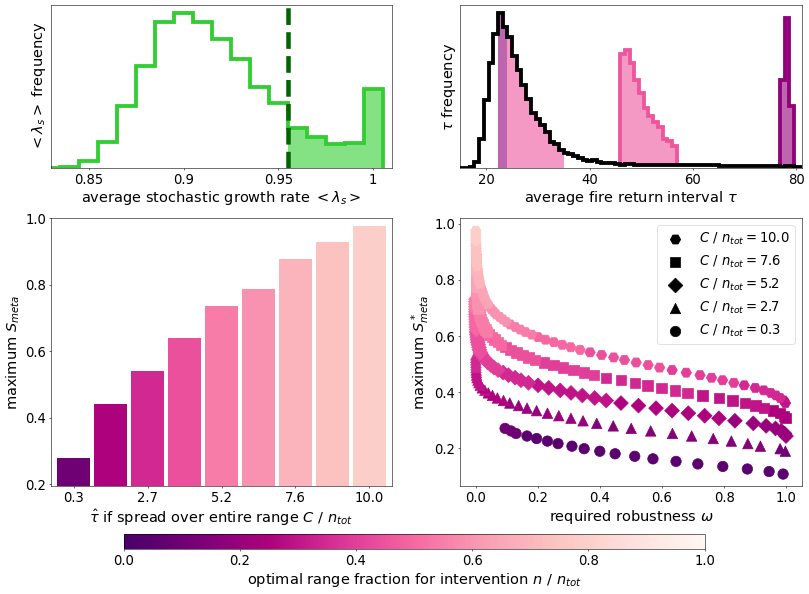
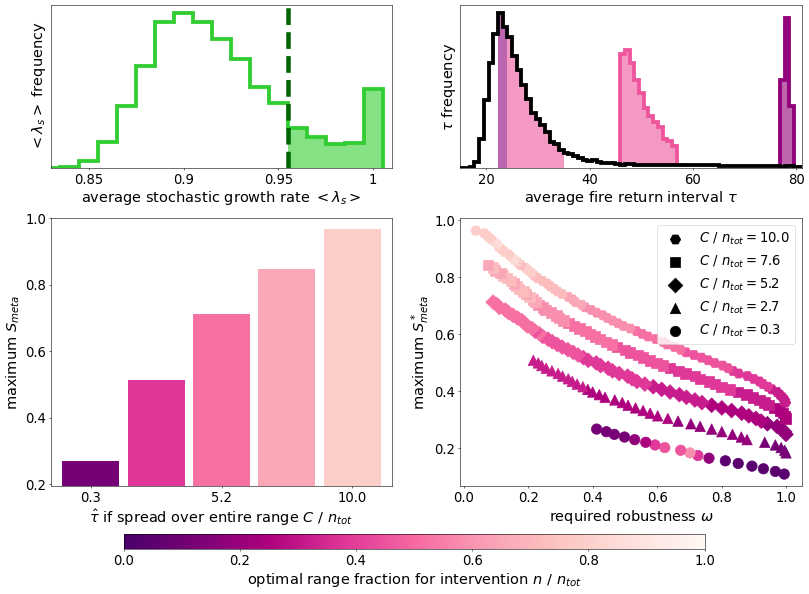
Include positive vals in systematic uncertainties

diff --git a/sensitivity/postprocess.py b/sensitivity/postprocess.py
@@ -23,10 +23,10 @@ tau_vec = b_vec * gamma(1+1/c)
 tau_step = np.diff(tau_vec)[0] / 2
 tau_edges = np.concatenate(([0], np.arange(tau_step/2, tau_vec[-1]+tau_step, tau_step)))
 tauc_methods = ["flat"]
-C_i_vec = [4] # For generation of cell metric data
+C_i_vec = [2,3,4] # For generation of cell metric data
 results_pre_labs = ['gte_thresh']
 #results_pre_labs = ['distribution_avg']
-overwrite_robustness = False
+overwrite_robustness = True
 overwrite_cellmetric = True
 
 # Function to read in things specific to given results as global variables
@@ -176,8 +176,9 @@ for res_i, results_pre in enumerate(results_pre_labs):
     argmaxrob = np.load(fn_prefix + "argmaxrob.npy")
     rob_thresh_vec = np.load(fn_prefix + "rob_thresh_vec.npy")
     for C_i in C_i_vec:
-        if os.path.isdir(fn_prefix + f"{C_i}") == False:
-            os.makedirs(fn_prefix + f"{C_i}")
+        tauhat_min = np.round(C_vec[C_i]/ncell_tot, 2) 
+        if os.path.isdir(fn_prefix + f"{tauhat_min}") == False:
+            os.makedirs(fn_prefix + f"{tauhat_min}")
 
         # Select metric threshold indices as close as possible to desired omega samples
         #closest_thresh_i = np.array([np.abs(maxrob[:,C_i] - val).argmin() for val in omega_samples])
@@ -199,7 +200,7 @@ for res_i, results_pre in enumerate(results_pre_labs):
             opt_sl = slice_left_all[opt_sl_i]
             '''Note that we assume the tau axis of inoptima_vec is in sorted order'''
             inoptima_vec[opt_sl:opt_sl+opt_ncell, omega_sample_i] = True
-        np.save(fn_prefix + f"{C_i}/inoptima_vec.npy", inoptima_vec)
+        np.save(fn_prefix + f"{tauhat_min}/inoptima_vec.npy", inoptima_vec)
 
         # Now, fit a step function to each cell's data and store information based on that
         stepfit_T1 = np.ones(tau_flat.size) * np.nan
@@ -228,7 +229,7 @@ for res_i, results_pre in enumerate(results_pre_labs):
                 if best_fit_i == 1:
                     stepfit_T2[k] = sign * best_fit.x[1]
                 total_inoptima[k] = np.count_nonzero(y == 1)
-        np.save(fn_prefix + f"{C_i}/stepfit_T1.npy", stepfit_T1)
-        np.save(fn_prefix + f"{C_i}/stepfit_T2.npy", stepfit_T2)
-        np.save(fn_prefix + f"{C_i}/total_inoptima.npy", total_inoptima)
-        np.save(fn_prefix + f"{C_i}/closest_thresh_i.npy", closest_thresh_i)
+        np.save(fn_prefix + f"{tauhat_min}/stepfit_T1.npy", stepfit_T1)
+        np.save(fn_prefix + f"{tauhat_min}/stepfit_T2.npy", stepfit_T2)
+        np.save(fn_prefix + f"{tauhat_min}/total_inoptima.npy", total_inoptima)
+        np.save(fn_prefix + f"{tauhat_min}/closest_thresh_i.npy", closest_thresh_i)

diff --git a/sensitivity/makefig.py b/sensitivity/makefig.py
@@ -28,7 +28,7 @@ tau_vec = b_vec * gamma(1+1/c)
 tau_step = np.diff(tau_vec)[0] / 2
 tau_edges = np.concatenate(([0], np.arange(tau_step/2, tau_vec[-1]+tau_step, tau_step)))
 tauc_methods = ["flat"]
-C_i_vec = [4]
+C_i_vec = [2,3,4]
 results_pre = 'gte_thresh' 
 #results_pre = 'distribution_avg' 
 
@@ -269,7 +269,7 @@ all_linestyles = ['dotted', 'dashdot', 'dashed', 'solid']
 #C_i_samples = [1,5,9]
 #C_i_samples = [1,3,6,9,11]
 #C_i_samples = [0,1,2,3,4]
-C_i_samples = [i for i in range(C_vec.size)][::2]
+C_i_samples = [i for i in range(C_vec.size)][::1]
 for line_i, C_i in enumerate(C_i_samples):
     plot_vec = np.ones(len(rob_thresh_vec)) * np.nan
     c_vec = np.ones(len(rob_thresh_vec)) * np.nan
@@ -422,6 +422,7 @@ cmap = copy.copy(cm.twilight_shifted)
 vmin = -1; vmax = 1
 norm = colors.Normalize(vmin=vmin, vmax=vmax)
 for C_i in C_i_vec:
+    tauhat_min = np.round(C_vec[C_i]/ncell_tot, 2)
     fig = plt.figure(figsize=np.array([6.8, 6])*2.)
     gs = GridSpec(3, 4, figure=fig, width_ratios=[2, 2, 1.1, 1.1], height_ratios=[1, 1, 1])
     ax1 = fig.add_subplot(gs[0, :2])  # Top-left subplot
@@ -431,9 +432,9 @@ for C_i in C_i_vec:
 
     # Read in / set constants
     set_globals(results_pre)
-    stepfit_T1 = np.load(fn_prefix + f"{C_i}/stepfit_T1.npy")
-    total_inoptima = np.load(fn_prefix + f"{C_i}/total_inoptima.npy")
-    closest_thresh_i = np.load(fn_prefix + f"{C_i}/closest_thresh_i.npy")
+    stepfit_T1 = np.load(fn_prefix + f"{tauhat_min}/stepfit_T1.npy")
+    total_inoptima = np.load(fn_prefix + f"{tauhat_min}/total_inoptima.npy")
+    closest_thresh_i = np.load(fn_prefix + f"{tauhat_min}/closest_thresh_i.npy")
 
     mapi_sorted = mapindices[tau_argsort].T
     # Initialize array for sensitivity metric; no changes needed to case of inclusions (T1 > 0)
@@ -518,7 +519,7 @@ for C_i in C_i_vec:
     ax4.axis('off')
     ######
 
-    fn = fig_prefix + f'fig3_pre_{C_i}.png'
+    fn = fig_prefix + f'fig3_pre_{tauhat_min}.png'
     fig.savefig(fn, bbox_inches='tight', dpi=dpi)
-    fn = fig_prefix + f'fig3_pre_{C_i}.svg'
+    fn = fig_prefix + f'fig3_pre_{tauhat_min}.svg'
     fig.savefig(fn, bbox_inches='tight', dpi=dpi)

diff --git a/sensitivity/phase.py b/sensitivity/phase.py
@@ -23,15 +23,15 @@ constants['min_tau'] = 2
 constants['A_cell'] = 270**2 / 1e6 #km^2
 constants['plotting_tau_bw_ratio'] = 30 #For binning initial tau (with uncertainty) in phase slice plots
 constants['tauc_baseline'] = 200 #years, max(tauc) possible at min(ncell) given C
-constants['ncell_samples'] = 20
-#constants['ncell_samples'] = 15
-constants['slice_samples'] = 40
-#constants['slice_samples'] = 30
+#constants['ncell_samples'] = 20
+constants['ncell_samples'] = 15
+#constants['slice_samples'] = 40
+constants['slice_samples'] = 30
 constants['baseline_A_min'] = 10 #km^2
 constants['baseline_A_max'] = 160 * 2.0043963553530753
 #constants['baseline_A_max'] = (160 * 2.0043963553530753) * 2
-constants['baseline_A_samples'] = 9
-#constants['baseline_A_samples'] = 5
+#constants['baseline_A_samples'] = 9
+constants['baseline_A_samples'] = 5
 constants['root'] = 0 #For mpi
 constants.update({'final_max_tau': np.nan})
 constants['overwrite_results'] = True
@@ -46,10 +46,10 @@ metrics = ["lambda_s"]
 tauc_methods = ["flat"]
 
 # Define uncertainty axes (and save under metric folder later)
-mu_tau_vec = np.linspace(-10, 0, 9)
-sigm_tau_vec = np.linspace(0, 10, 7)
-mu_tauc_vec = np.linspace(-10, 0, 9)
-sigm_tauc_vec = np.linspace(0, 10, 7)
+mu_tau_vec = np.arange(-10, 8, 2).astype(float)
+sigm_tau_vec = np.linspace(0, 10, 3)
+mu_tauc_vec = np.arange(-10, 8, 2).astype(float)
+sigm_tauc_vec = np.linspace(0, 10, 3)
 #mu_tau_vec = np.linspace(-10, 0, 4)
 #sigm_tau_vec = np.linspace(0, 10, 3)
 #mu_tauc_vec = np.linspace(-10, 0, 4)
